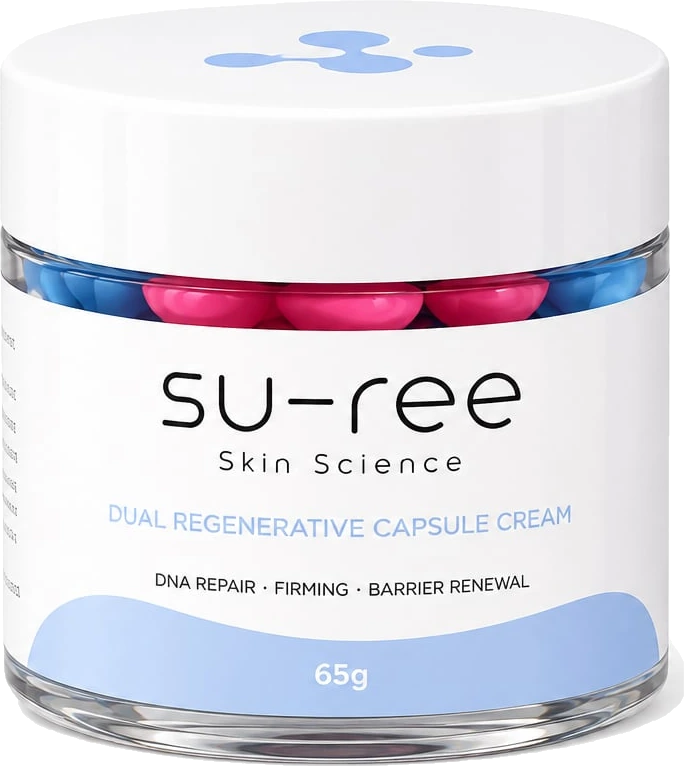
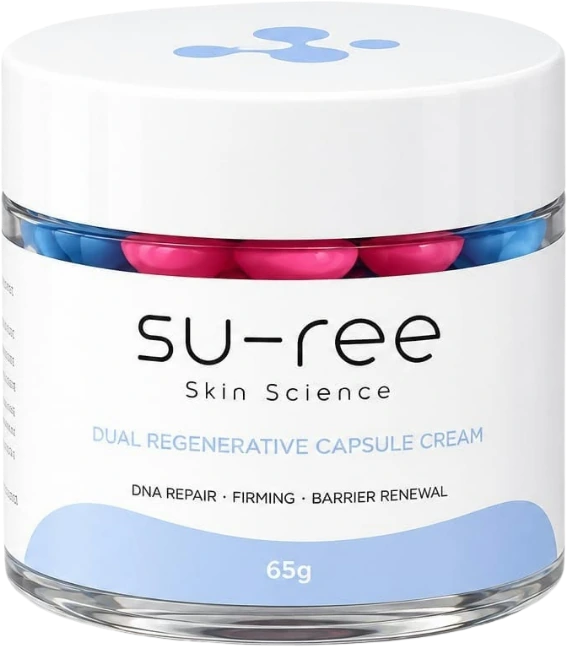
The supplied cut-outs replace every product shot
Eight PNGs, already lifted off their backdrop, take over from the ones
cut here: the jar, the bottle, each with its carton, the pair, the
pair with cartons for the hero, and both open. The pair stands tall
again, so the Duo card fills its stage as it did before.

diff --git a/Home.dc.html b/Home.dc.html
@@ -1187,7 +1187,7 @@
           <div class="sr-prodstage" style="position:relative; margin-top:14px; height:214px; padding:4px 0; box-sizing:border-box; display:flex; align-items:center; justify-content:center">
             <span class="sr-bgorb" aria-hidden="true" style="position:absolute; right:16%; bottom:4px; left:16%; height:34px; border-radius:9999px; background:radial-gradient(ellipse at center, rgba(146,186,230,0.45) 0%, rgba(146,186,230,0.14) 52%, rgba(146,186,230,0) 74%); pointer-events:none"></span>
             <div class="sr-duoshot" style="display:flex; align-items:flex-end; justify-content:center; gap:0px; height:100%; max-width:100%; transform:translateY(4%)">
-              <img src="assets/p-duo.webp" alt="su-ree Capsule Cream jar beside the GHK-Cu Serum bottle" style="height:100%; width:auto; max-width:100%; object-fit:contain; filter:drop-shadow(0 20px 26px rgba(18,38,58,0.20))" />
+              <img src="assets/p-duo.webp" alt="su-ree Capsule Cream jar beside the GHK-Cu Serum bottle" style="height:112%; width:auto; max-width:100%; object-fit:contain; filter:drop-shadow(0 20px 26px rgba(18,38,58,0.20))" />
             </div>
           </div>
           <div style="margin-top:auto; padding:0 3px; display:flex; flex-direction:column; text-align:center">
